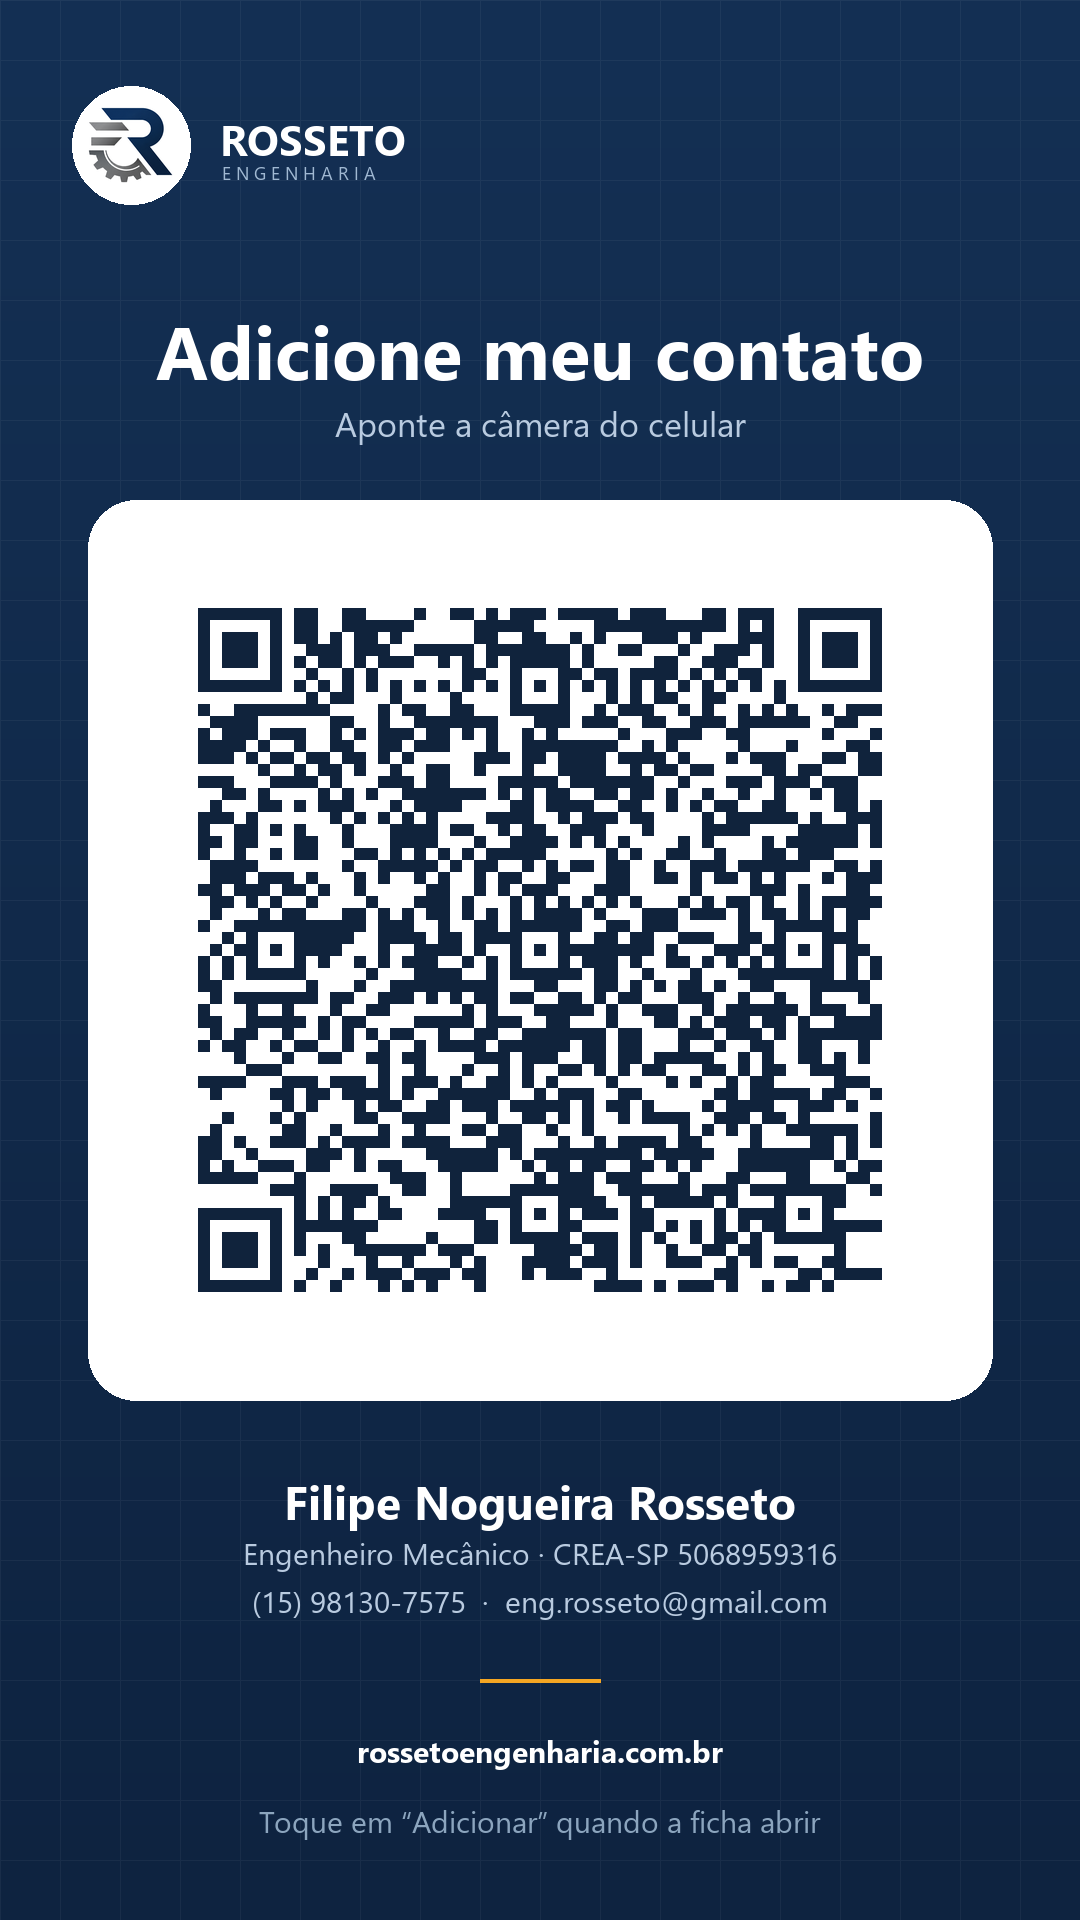
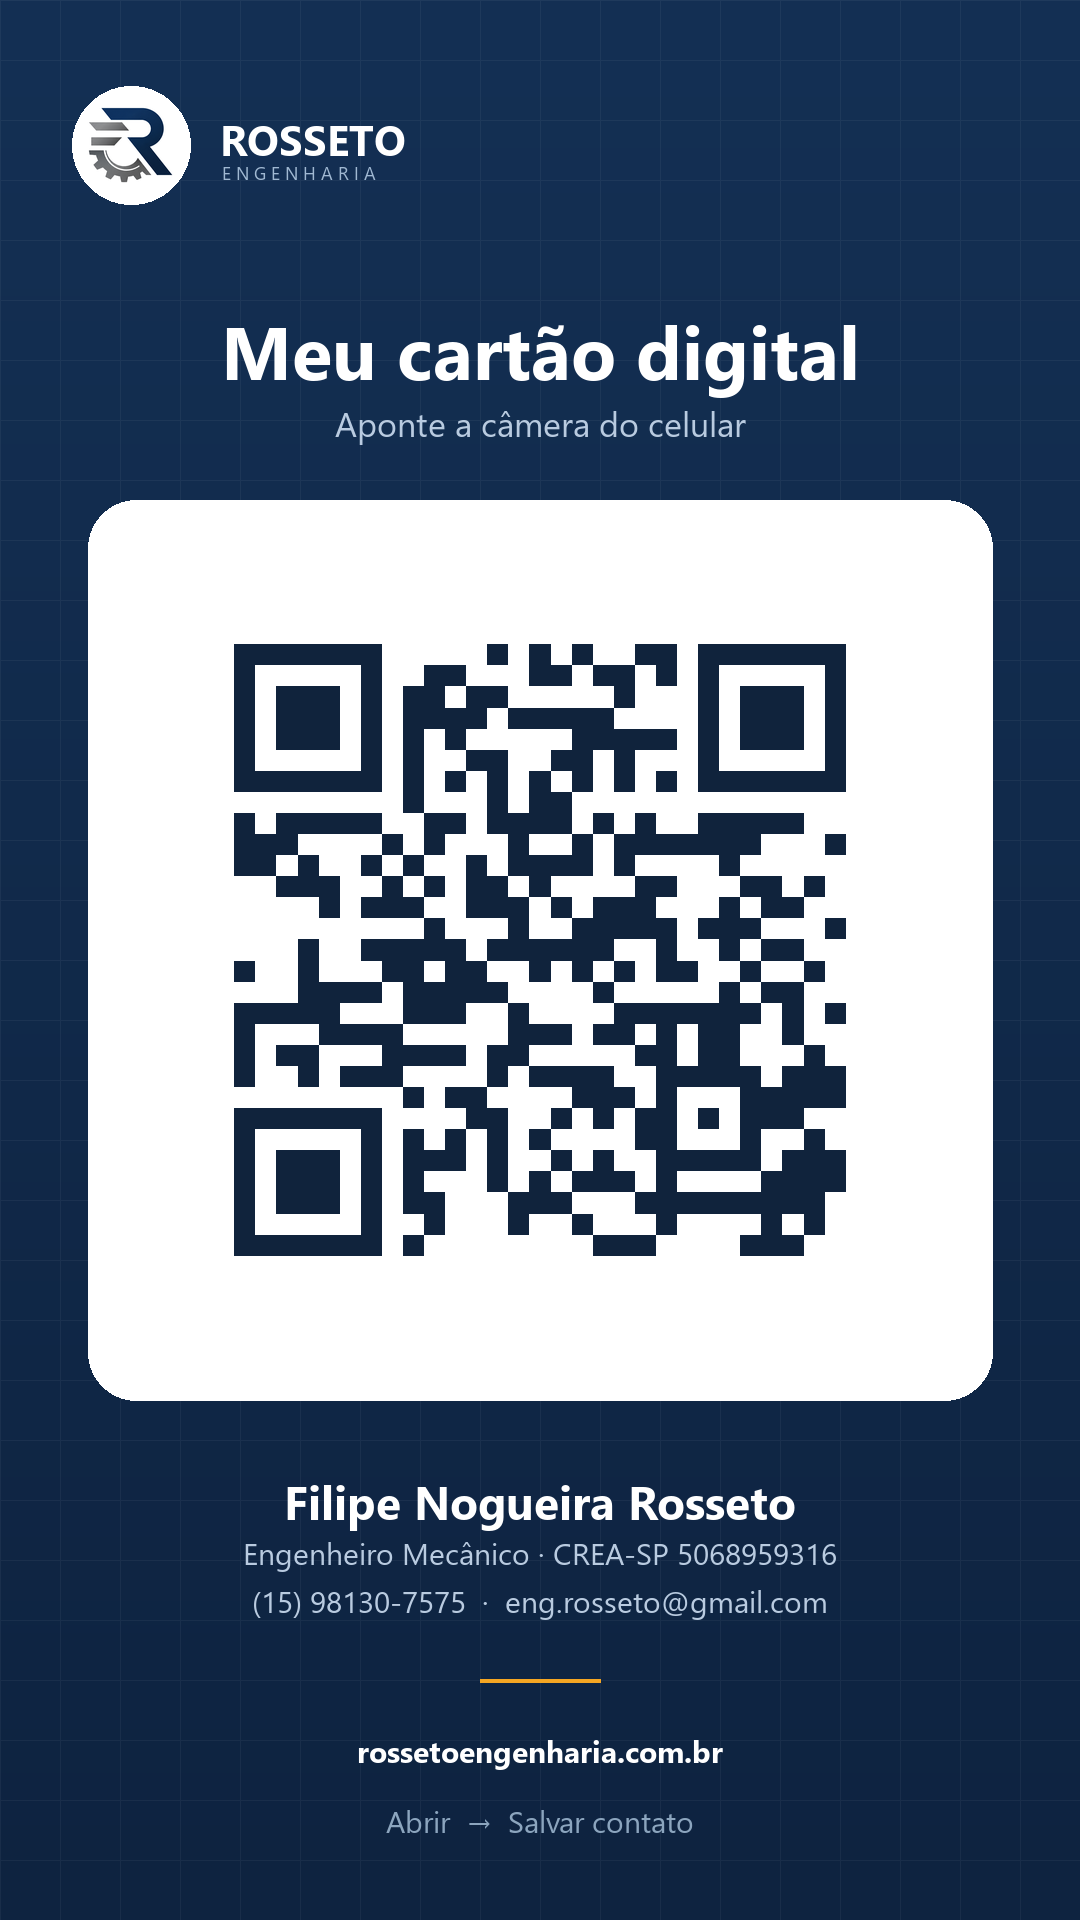
feat(cartao): QR principal abre a pagina do cartao (compativel com qualquer celular)
O QR de vCard vira alternativa (iPhone/Google Lens) em Contato-QR-vcard.png. Remove QR duplicado e artefatos antigos.

diff --git a/cartao/_build/build_vcard.py b/cartao/_build/build_vcard.py
@@ -1,4 +1,8 @@
-"""Generate the vCard QR (add-to-contacts) and the phone-screen card image."""
+"""Generate the contact QRs and the phone-screen card images.
+
+Contato-QR.png       -> QR da pagina do cartao (funciona em qualquer celular)
+Contato-QR-vcard.png -> QR de vCard (abre a ficha de contato no iPhone / Google Lens)
+"""
 import os
 import sys
 
@@ -10,6 +14,7 @@ ROOT = os.path.dirname(os.path.dirname(os.path.abspath(__file__)))
 ASSETS = os.path.join(ROOT, "assets")
 FONTS = r"C:\Windows\Fonts"
 
+PAGE = "https://rossetoengenharia.com.br/cartao/"
 VCARD = "\r\n".join([
     "BEGIN:VCARD",
     "VERSION:3.0",
@@ -22,90 +27,96 @@ VCARD = "\r\n".join([
     "END:VCARD",
 ])
 
-version, matrix = qr.build(VCARD)
-print("vcard bytes:", len(VCARD.encode()), "| versao:", version, "| modulos:", len(matrix))
-
-# raw assets
-with open(os.path.join(ASSETS, "qr-contato.svg"), "w", encoding="utf-8") as f:
-    f.write(qr.to_svg(matrix, quiet=4, dark="#0e2340"))
-qr.to_png(matrix, os.path.join(ASSETS, "qr-contato.png"), scale=14, quiet=4)
-
-# ---------------------------------------------------------------- screen card
-W, H = 1080, 1920
 NAVY = (14, 35, 64)
 NAVY_2 = (20, 48, 84)
 WHITE = (255, 255, 255)
 SOFT = (185, 203, 224)
 ACCENT = (245, 166, 35)
 
-img = Image.new("RGB", (W, H), NAVY)
-d = ImageDraw.Draw(img)
-
-# subtle gradient + grid
-for y in range(H):
-    t = y / H
-    c = tuple(int(NAVY[i] + (NAVY_2[i] - NAVY[i]) * (1 - t)) for i in range(3))
-    d.line([(0, y), (W, y)], fill=c)
-grid = Image.new("RGBA", (W, H), (0, 0, 0, 0))
-gd = ImageDraw.Draw(grid)
-for x in range(0, W, 60):
-    gd.line([(x, 0), (x, H)], fill=(255, 255, 255, 12))
-for y in range(0, H, 60):
-    gd.line([(0, y), (W, y)], fill=(255, 255, 255, 12))
-img = Image.alpha_composite(img.convert("RGBA"), grid).convert("RGB")
-d = ImageDraw.Draw(img)
-
 
 def font(name, size):
     return ImageFont.truetype(os.path.join(FONTS, name), size)
 
 
-f_bold = font("segoeuib.ttf", 74)
-f_sub = font("segoeui.ttf", 34)
-f_name = font("segoeuib.ttf", 46)
-f_small = font("segoeui.ttf", 30)
-f_brand = font("segoeuib.ttf", 42)
-f_brand_s = font("segoeui.ttf", 18)
-f_url = font("segoeuib.ttf", 30)
+def make_card(payload, out_name, title, sub, note):
+    version, matrix = qr.build(payload)
+    print(f"{out_name}: {len(payload.encode())} bytes, v{version}, {len(matrix)}x{len(matrix)}")
+
+    raw = f"qr-{'link' if payload == PAGE else 'vcard'}"
+    with open(os.path.join(ASSETS, f"{raw}.svg"), "w", encoding="utf-8") as f:
+        f.write(qr.to_svg(matrix, quiet=4, dark="#0e2340"))
+    qr.to_png(matrix, os.path.join(ASSETS, f"{raw}.png"), scale=16, quiet=4)
+
+    W, H = 1080, 1920
+    img = Image.new("RGB", (W, H), NAVY)
+    d = ImageDraw.Draw(img)
+    for y in range(H):
+        t = y / H
+        c = tuple(int(NAVY[i] + (NAVY_2[i] - NAVY[i]) * (1 - t)) for i in range(3))
+        d.line([(0, y), (W, y)], fill=c)
+    grid = Image.new("RGBA", (W, H), (0, 0, 0, 0))
+    gd = ImageDraw.Draw(grid)
+    for x in range(0, W, 60):
+        gd.line([(x, 0), (x, H)], fill=(255, 255, 255, 12))
+    for y in range(0, H, 60):
+        gd.line([(0, y), (W, y)], fill=(255, 255, 255, 12))
+    img = Image.alpha_composite(img.convert("RGBA"), grid).convert("RGB")
+    d = ImageDraw.Draw(img)
+
+    f_bold = font("segoeuib.ttf", 74)
+    f_sub = font("segoeui.ttf", 34)
+    f_name = font("segoeuib.ttf", 46)
+    f_small = font("segoeui.ttf", 30)
+    f_brand = font("segoeuib.ttf", 42)
+    f_brand_s = font("segoeui.ttf", 18)
+    f_url = font("segoeuib.ttf", 30)
+
+    def center(text, fnt, y, fill=WHITE):
+        b = d.textbbox((0, 0), text, font=fnt)
+        d.text(((W - (b[2] - b[0])) / 2 - b[0], y), text, font=fnt, fill=fill)
+
+    disc, dx, dy = 118, 72, 86
+    d.ellipse([dx, dy, dx + disc, dy + disc], fill=WHITE)
+    em = Image.open(os.path.join(ASSETS, "emblema.png")).convert("RGB")
+    ew = int(disc * 0.74)
+    em = em.resize((ew, int(ew * em.height / em.width)), Image.LANCZOS)
+    img.paste(em, (dx + (disc - em.width) // 2, dy + (disc - em.height) // 2))
+    d.text((dx + disc + 30, dy + 24), "ROSSETO", font=f_brand, fill=WHITE)
+    d.text((dx + disc + 32, dy + 74), "E N G E N H A R I A", font=f_brand_s, fill=(160, 184, 210))
+
+    center(title, f_bold, 300)
+    center(sub, f_sub, 400, SOFT)
+
+    d.rounded_rectangle([88, 500, W - 88, 1400], radius=48, fill=WHITE)
+    qsize = 780
+    qx, qy = (W - qsize) // 2, 500 + (900 - qsize) // 2
+    qimg = Image.open(os.path.join(ASSETS, f"{raw}.png")).convert("RGB").resize((qsize, qsize), Image.NEAREST)
+    img.paste(qimg, (qx, qy))
+    d = ImageDraw.Draw(img)
+
+    center("Filipe Nogueira Rosseto", f_name, 1470)
+    center("Engenheiro Mecânico · CREA-SP 5068959316", f_small, 1532, SOFT)
+    center("(15) 98130-7575  ·  eng.rosseto@gmail.com", f_small, 1580, SOFT)
+    d.line([(W // 2 - 60, 1680), (W // 2 + 60, 1680)], fill=ACCENT, width=4)
+    center("rossetoengenharia.com.br", f_url, 1730, WHITE)
+    center(note, f_small, 1800, (140, 165, 190))
+
+    img.save(os.path.join(ROOT, out_name), optimize=True)
+    print("  ->", out_name)
 
 
-def center(text, fnt, y, fill=WHITE):
-    b = d.textbbox((0, 0), text, font=fnt)
-    d.text(((W - (b[2] - b[0])) / 2 - b[0], y), text, font=fnt, fill=fill)
+make_card(
+    PAGE,
+    "Contato-QR.png",
+    "Meu cartão digital",
+    "Aponte a câmera do celular",
+    "Abrir  →  Salvar contato",
+)
 
-
-# brand
-disc = 118
-dx, dy = 72, 86
-d.ellipse([dx, dy, dx + disc, dy + disc], fill=WHITE)
-em = Image.open(os.path.join(ASSETS, "emblema.png")).convert("RGB")
-ew = int(disc * 0.74)
-em = em.resize((ew, int(ew * em.height / em.width)), Image.LANCZOS)
-img.paste(em, (dx + (disc - em.width) // 2, dy + (disc - em.height) // 2))
-d.text((dx + disc + 30, dy + 24), "ROSSETO", font=f_brand, fill=WHITE)
-d.text((dx + disc + 32, dy + 74), "E N G E N H A R I A", font=f_brand_s, fill=(160, 184, 210))
-
-center("Adicione meu contato", f_bold, 300)
-center("Aponte a câmera do celular", f_sub, 400, SOFT)
-
-# qr panel
-box = [88, 500, W - 88, 1400]
-d.rounded_rectangle(box, radius=48, fill=WHITE)
-qr_size = 780
-qx = (W - qr_size) // 2
-qy = 500 + (900 - qr_size) // 2
-qimg = Image.open(os.path.join(ASSETS, "qr-contato.png")).convert("RGB")
-qimg = qimg.resize((qr_size, qr_size), Image.NEAREST)
-img.paste(qimg, (qx, qy))
-d = ImageDraw.Draw(img)
-
-center("Filipe Nogueira Rosseto", f_name, 1470)
-center("Engenheiro Mecânico · CREA-SP 5068959316", f_small, 1532, SOFT)
-center("(15) 98130-7575  ·  eng.rosseto@gmail.com", f_small, 1580, SOFT)
-
-d.line([(W // 2 - 60, 1680), (W // 2 + 60, 1680)], fill=ACCENT, width=4)
-center("rossetoengenharia.com.br", f_url, 1730, WHITE)
-center("Toque em “Adicionar” quando a ficha abrir", f_small, 1800, (140, 165, 190))
-
-img.save(os.path.join(ROOT, "Contato-QR.png"), optimize=True)
-print("Contato-QR.png salvo")
+make_card(
+    VCARD,
+    "Contato-QR-vcard.png",
+    "Adicione meu contato",
+    "Aponte a câmera do celular",
+    "Toque em “Adicionar” quando a ficha abrir",
+)

diff --git a/cartao/_build/build_assets.py b/cartao/_build/build_assets.py
@@ -97,7 +97,6 @@ mark.save(os.path.join(ASSETS, "emblema-branco.png"), optimize=True)
 # ---------------------------------------------------------------- QRs
 TARGETS = {
     "site": "https://rossetoengenharia.com.br/",
-    "card": "https://rossetoengenharia.com.br/cartao/",
     "wa": "https://wa.me/5515981307575?text=Ol%C3%A1!%20Vim%20pelo%20seu%20cart%C3%A3o.",
 }
 for name, payload in TARGETS.items():
